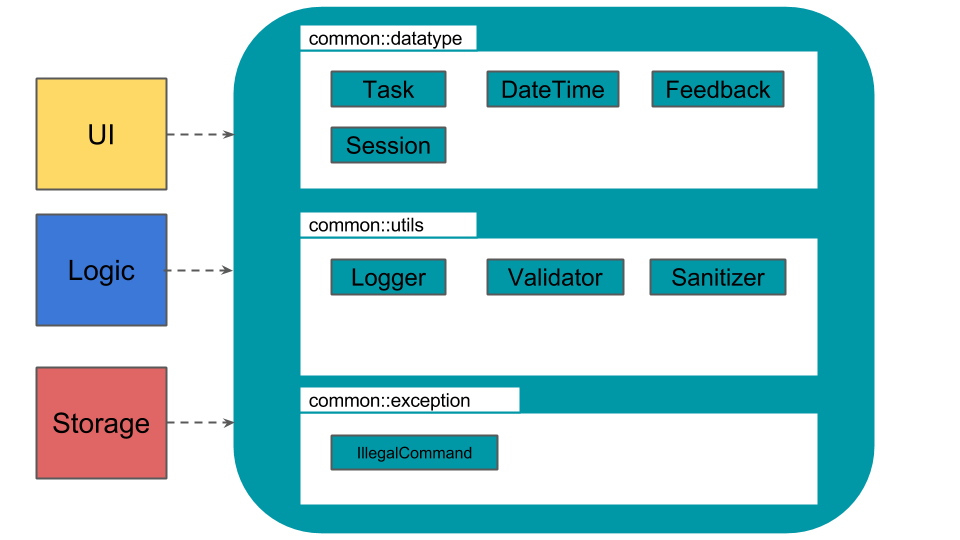
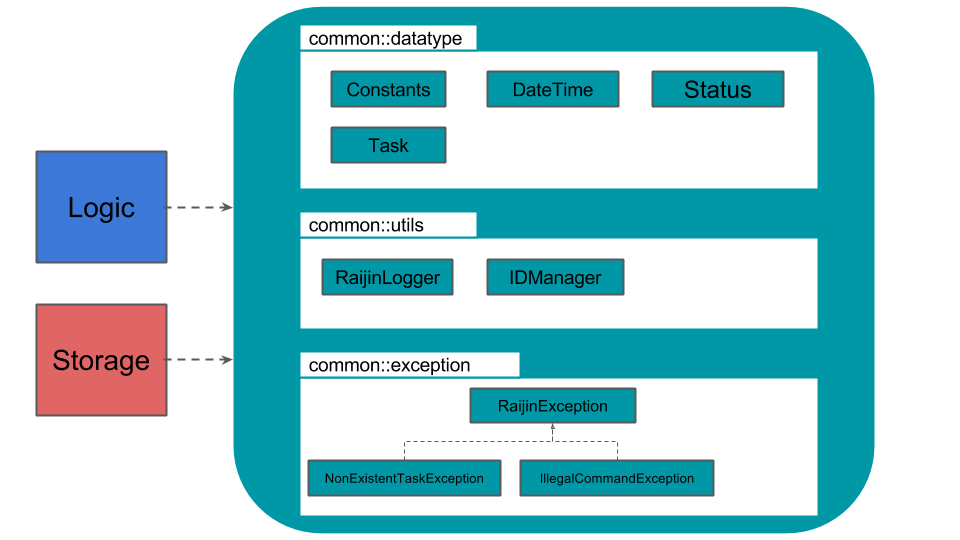
Modifed class diagrams and added apis

diff --git a/src/test/raijin/logic/command/AddCommandRunnerTest.java b/src/test/raijin/logic/command/AddCommandRunnerTest.java
@@ -13,10 +13,10 @@ import com.tngtech.java.junit.dataprovider.DataProviderRunner;
 
 import raijin.common.datatypes.Constants;
 import raijin.common.datatypes.DateTime;
-import raijin.common.datatypes.IDManager;
 import raijin.common.datatypes.Status;
 import raijin.common.datatypes.Task;
 import raijin.common.exception.NonExistentTaskException;
+import raijin.common.utils.IDManager;
 import raijin.logic.api.CommandRunner;
 import raijin.logic.parser.ParsedInput;
 import raijin.storage.api.History;

diff --git a/src/main/raijin/logic/api/Logic.java b/src/main/raijin/logic/api/Logic.java
@@ -6,10 +6,10 @@ import java.util.ArrayList;
 import java.util.HashMap;
 
 import raijin.common.datatypes.Constants;
-import raijin.common.datatypes.IDManager;
 import raijin.common.datatypes.Status;
 import raijin.common.datatypes.Task;
 import raijin.common.exception.NonExistentTaskException;
+import raijin.common.utils.IDManager;
 import raijin.logic.parser.ParsedInput;
 import raijin.logic.parser.ParserInterface;
 import raijin.logic.parser.SimpleParser;

diff --git a/src/test/raijin/integration/LogicStorageIT.java b/src/test/raijin/integration/LogicStorageIT.java
@@ -19,8 +19,8 @@ import com.google.gson.stream.JsonReader;
 
 import raijin.common.datatypes.Constants;
 import raijin.common.datatypes.DateTime;
-import raijin.common.datatypes.IDManager;
 import raijin.common.datatypes.Task;
+import raijin.common.utils.IDManager;
 import raijin.logic.api.Logic;
 import raijin.storage.api.TasksManager;
 import static raijin.storage.handler.StorageHandler.*;

diff --git a/src/test/raijin/storage/api/TasksManagerTest.java b/src/test/raijin/storage/api/TasksManagerTest.java
@@ -9,9 +9,9 @@ import org.junit.Rule;
 import org.junit.Test;
 
 import raijin.common.datatypes.DateTime;
-import raijin.common.datatypes.IDManager;
 import raijin.common.datatypes.Task;
 import raijin.common.exception.NonExistentTaskException;
+import raijin.common.utils.IDManager;
 import raijin.common.utils.RaijinLogger;
 
 public class TasksManagerTest {

diff --git a/src/main/raijin/logic/api/CommandDispatcher.java b/src/main/raijin/logic/api/CommandDispatcher.java
@@ -25,7 +25,7 @@ public class CommandDispatcher {
       return commandRunner.execute(input);
   }
   
-  public void setupCommandUnit(){
+  void setupCommandUnit(){
     /*Setup each command runner based on commands*/
     for (Constants.Command cmd : Constants.Command.values()) {
       commandRunners.put(cmd, CommandRunnerFactory.getCommandRunner(cmd));

diff --git a/src/test/raijin/common/utils/IDManagerTest.java b/src/test/raijin/common/utils/IDManagerTest.java
@@ -1,4 +1,4 @@
-package raijin.common.datatypes;
+package raijin.common.utils;
 
 import static org.junit.Assert.*;
 
@@ -8,6 +8,9 @@ import java.util.TreeSet;
 import org.junit.Before;
 import org.junit.Ignore;
 import org.junit.Test;
+
+import raijin.common.datatypes.Task;
+import raijin.common.utils.IDManager;
 
 public class IDManagerTest {
 

diff --git a/src/main/raijin/common/utils/IDManager.java b/src/main/raijin/common/utils/IDManager.java
@@ -1,7 +1,9 @@
-package raijin.common.datatypes;
+package raijin.common.utils;
 
 import java.util.HashMap;
 import java.util.TreeSet;
+
+import raijin.common.datatypes.Task;
 
 public class IDManager {
 

diff --git a/src/main/raijin/common/datatypes/Task.java b/src/main/raijin/common/datatypes/Task.java
@@ -2,6 +2,8 @@ package raijin.common.datatypes;
 
 import java.util.TreeSet;
 
+import raijin.common.utils.IDManager;
+
 
 /**
  * 
